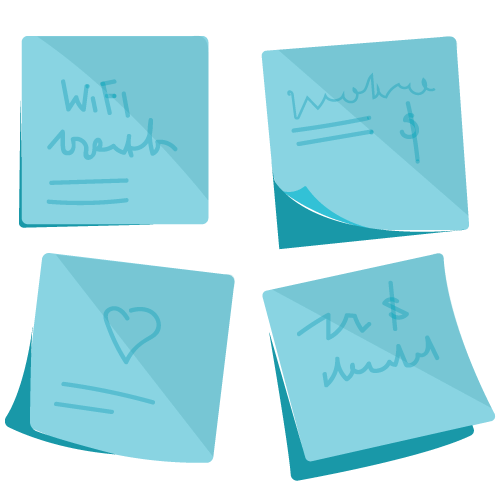
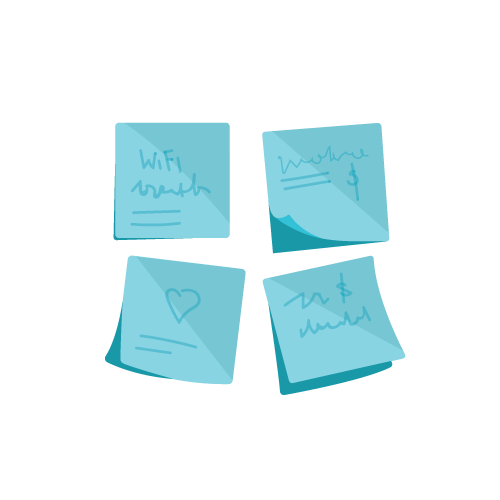
improved slides

diff --git a/src/mobile/pages/Welcome.js b/src/mobile/pages/Welcome.js
@@ -83,8 +83,8 @@ class Welcome extends Component {
                 <View style={styles.slide} key={index}>
                   <Image source={slide.background} resizeMode="stretch" style={styles.background}>
                     <View style={styles.content}>
-                      <FormattedMessage id={'slide.' + slide.id + '.title'} style={styles.title}>Title</FormattedMessage>
                       <Image source={slide.illustration} style={styles.illustration} />
+                      <FormattedMessage id={'slide.' + slide.id + '.title'} style={styles.title}>Title</FormattedMessage>
                       <FormattedMessage id={'slide.' + slide.id + '.description'} style={styles.description}>{'Desc\nblabla'}</FormattedMessage>
                     </View>
                   </Image>
@@ -106,6 +106,8 @@ class Welcome extends Component {
   }
 }
 
+const contentWidth = (width * 0.7)
+
 const styles = StyleSheet.create({
   container: {
     flex: 1,
@@ -122,27 +124,33 @@ const styles = StyleSheet.create({
   },
   content: {
     flex: 1,
-    marginTop: (height * 0.28),
-    marginLeft: (width * 0.1),
+    width: contentWidth,
+    justifyContent: 'center',
+  },
+  illustration: {
+    width: contentWidth,
+    height: contentWidth,
+    //borderWidth: 1, borderColor: 'rgba(255, 255, 255, .5)',
   },
   title: {
     color: colors.lightText,
     fontSize: 40,
-  },
-  illustration: {
-    width: (width * 0.3),
-    height: (width * 0.3),
-    marginLeft: (width * 0.1),
-    marginVertical: 40,
-    // borderWidth: 1, borderColor: 'rgba(255, 255, 255, .5)',
+    position: 'absolute',
+    top: (height * 0.25),
+    width: contentWidth,
+    textAlign: 'center',
   },
   description: {
-    width: (width * 0.5),
+    position: 'absolute',
+    top: (height * 0.66),
+    paddingHorizontal: (width * 0.07),
+    width: contentWidth,
     color: colors.lightText,
-    fontSize: 20,
+    fontSize: 16,
+    textAlign: 'center',
   },
   paginationStyle: {
-    bottom: (height * 0.13),
+    bottom: (height * 0.15),
   },
   dot: {
     width: 8,
@@ -165,7 +173,7 @@ const styles = StyleSheet.create({
   action: {
     color: colors.lightText,
     fontSize: 16,
-    padding: 32,
+    padding: 24,
   },
 })
 

diff --git a/src/common/messages/en.js b/src/common/messages/en.js
@@ -3,17 +3,17 @@
 export default {
   // slides
   'slide.logo.title': 'Tribeez',
-  'slide.logo.description': 'The best way to sort your group life',
+  'slide.logo.description': 'The best way to sort\nyour group life',
   'slide.bills.title': 'Expenses',
-  'slide.bills.description': 'Easily split expenses with your housemates, friends or family members',
+  'slide.bills.description': 'Easily split expenses with your tribe members',
   'slide.events.title': 'Events',
   'slide.events.description': 'Create and get notified of events to enjoy moments with your tribe',
   'slide.polls.title': 'Polls',
   'slide.polls.description': 'Ask for opinions and get instant answers',
   'slide.tasks.title': 'Tasks',
-  'slide.tasks.description': 'Get things done',
+  'slide.tasks.description': 'Assign to get things done',
   'slide.notes.title': 'Notes',
-  'slide.notes.description': 'Remember stuff',
+  'slide.notes.description': 'Share shopping lists and never forget that WiFi password again',
   'slides.login': 'LOGIN',
   'slides.register': 'CREATE ACCOUNT',
 
